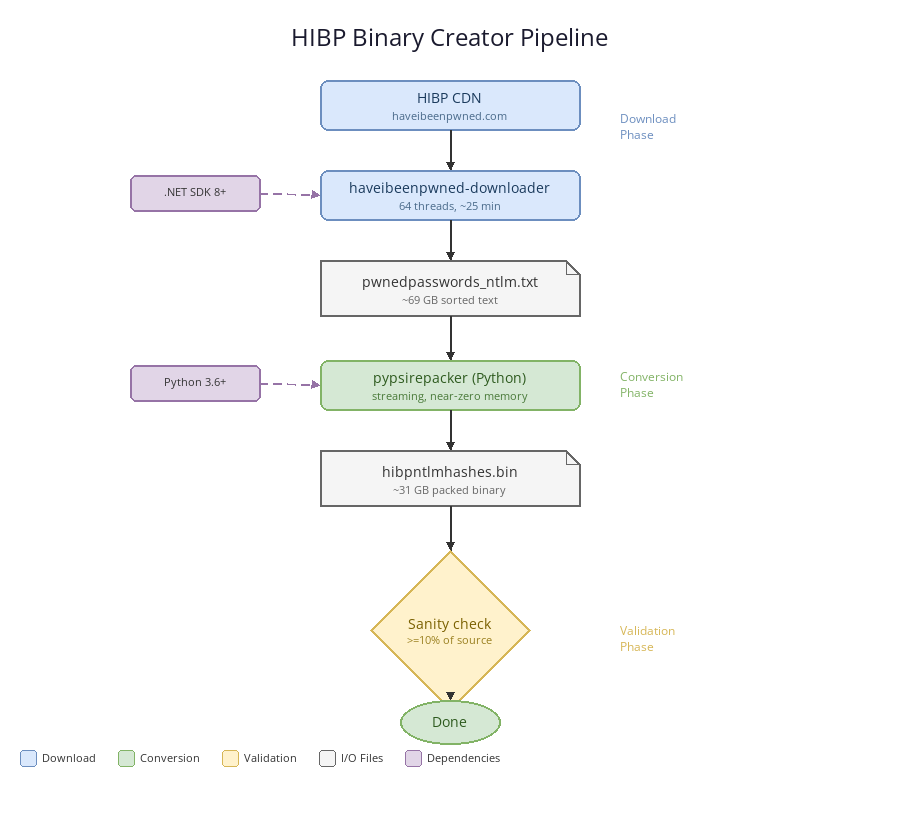
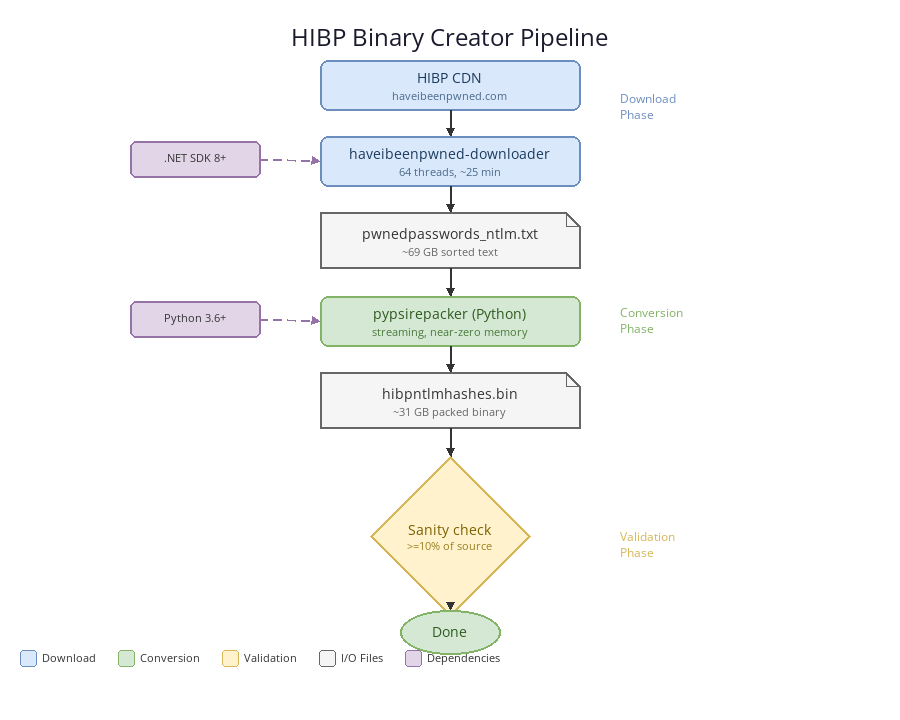
Tighten diagram spacing and fix legend clipping
Reduce canvas from 900x820 to 900x720, compact node spacing from 90px
gaps to 76px, ensure legend row renders fully without overlap.

diff --git a/docs/diagrams/generate_pipeline_png.py b/docs/diagrams/generate_pipeline_png.py
@@ -17,7 +17,7 @@ OUT_PATH = os.path.join(SCRIPT_DIR, "HIBP-Pipeline.png")
 FONT_PATH = os.environ.get("FONT_PATH", "/tmp/fonts/OpenSans.ttf")
 
 # Canvas
-W, H = 900, 820
+W, H = 900, 720
 BG = "#FFFFFF"
 
 # Colors matching drawio spec
@@ -122,14 +122,14 @@ def main():
     # Phase label positions
     phase_x = right + 40
 
-    # Y positions for each node
-    y_cdn = 80
-    y_dl = 170
-    y_txt = 260
-    y_pack = 360
-    y_bin = 450
-    y_check = 550
-    y_done = 700
+    # Y positions for each node (compact spacing)
+    y_cdn = 60
+    y_dl = 136
+    y_txt = 212
+    y_pack = 296
+    y_bin = 372
+    y_check = 456
+    y_done = 610
 
     # ---- Dependencies (left side, purple) ----
     dep_x = left - dep_w - 60
